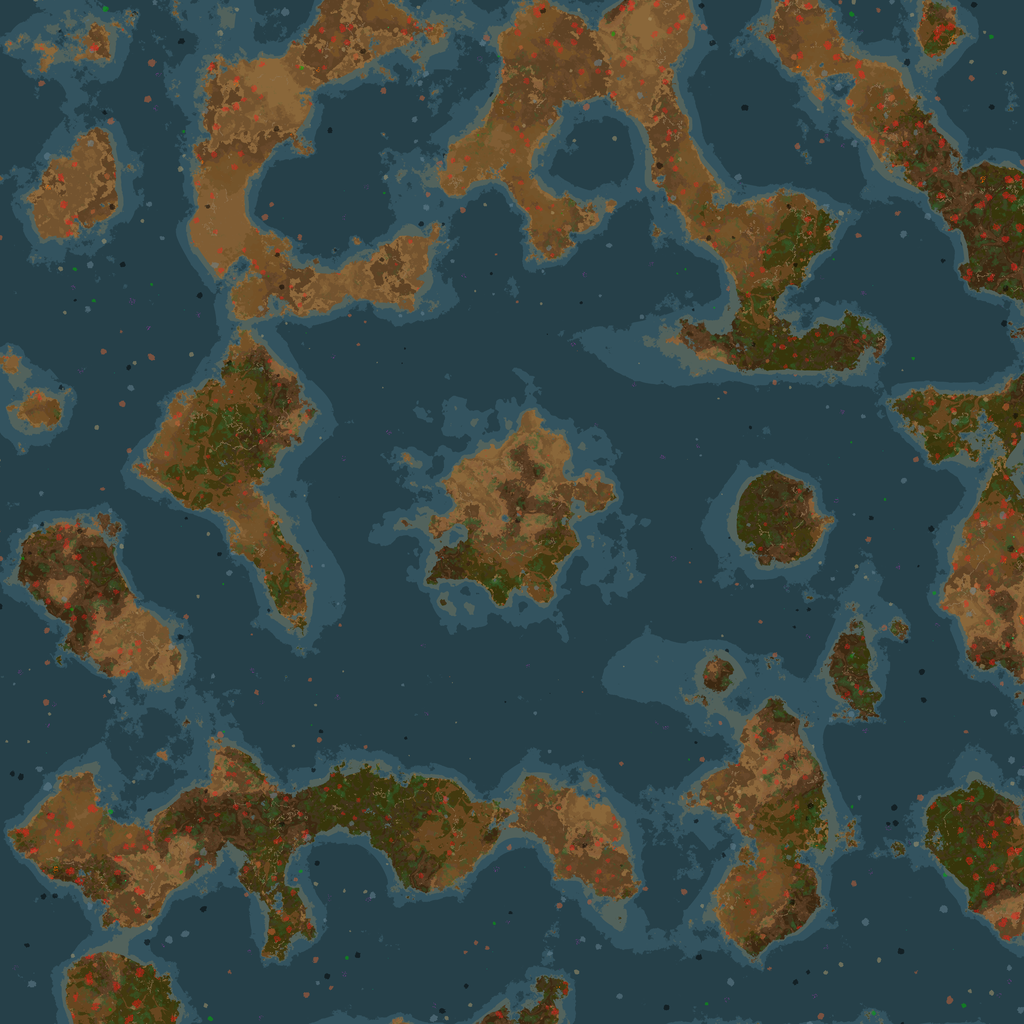
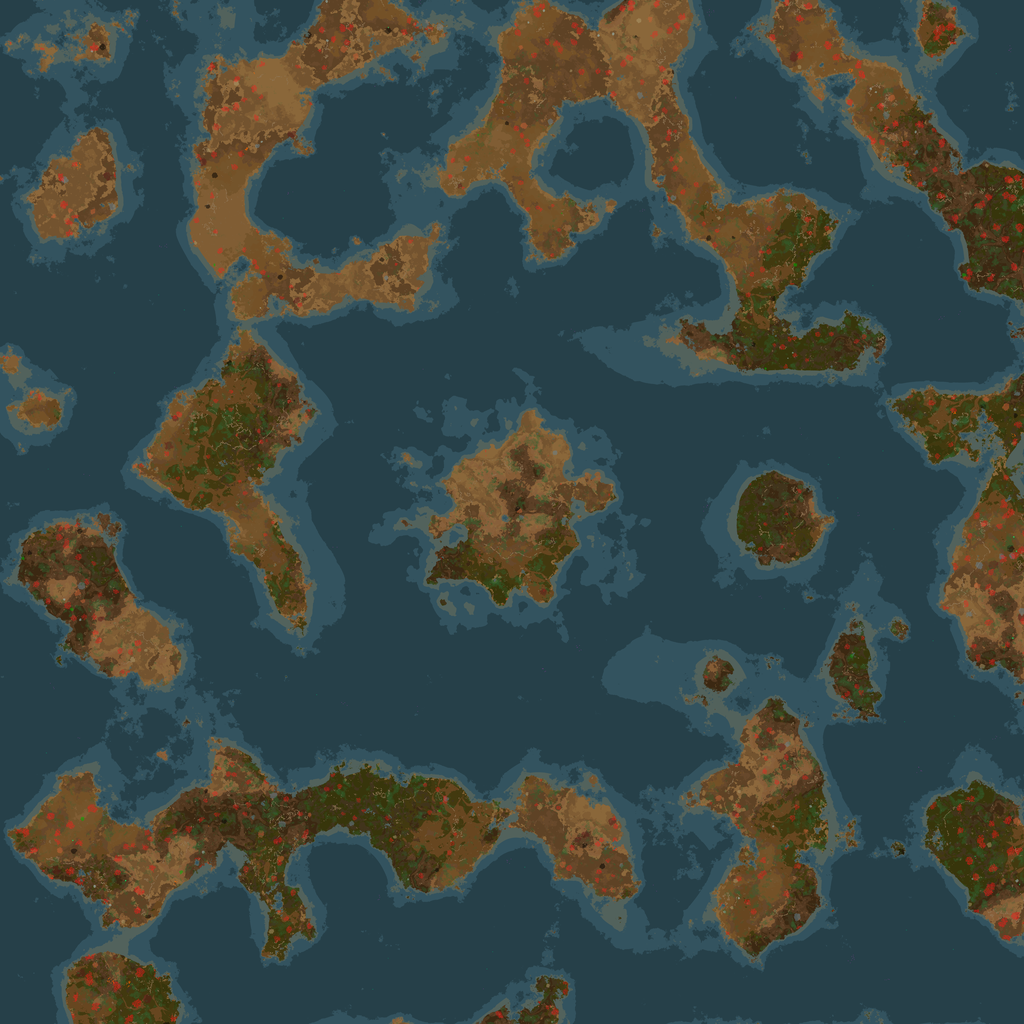
Offshore oil from cargo-ships-oil-rig; no inland oil on Nauvis
cargo-ships 2.1 moved oil rigs to cargo-ships-oil-rig and dropped the
no_oil_on_land/deep_oil settings, so FF removes crude-oil from Nauvis map
gen itself. Seamounts use the oil rig mod's water_resource layer since
water tiles keep the resource layer in 2.x. Verified with a 8192x8192
preview: 0 inland oil, 125 offshore oil, 28 seamounts.

Claude-Session: https://claude.ai/code/session_01DpRwa4QwQtoERJC4z1rj1N

Changed region(s): [[0.0625, 0.5625, 0.0938, 0.5938]]

diff --git a/docs/PORT_2.1.md b/docs/PORT_2.1.md
@@ -73,6 +73,13 @@ Cargo Ships 2.1.8, BZ Lead 2.0.29, BZ Titanium 2.0.27 (вместо `cargo-ships
   `category` → `categories`). Поэтому сейчас он **необязательный**: мод запускается без контейнеров, интеграция
   включится сама, когда выйдет версия под 2.1.
 * В Cargo Ships 2.1 нефтяная вышка вынесена в отдельный мод **cargo-ships-oil-rig** — теперь это обязательная зависимость.
+  Его настроек `deep_oil`/`no_oil_on_land`/`oil_richness` больше нет, поэтому FF сам убирает `crude-oil` из
+  генерации Нувиса (`prototypes/planet-nauvis.lua`). Морская нефть — `offshore-oil` этого мода.
+* Подводные горы используют слой `water_resource` мода вышки (в 2.x у воды есть слой `resource`).
+* Карта 8192×8192 с этими модами: нефть на суше 0, морская нефть 125, подводных гор 28, лава 128, кратеров 9,
+  свинец и титан есть.
+* Ещё не проверены скрипты с настоящими модами: нужны **Robot256Lib** (библиотека Cargo Ships) и
+  **SpidertronEnhancements** (для Spidertron Patrols).
 
 ## Что ещё НЕ проверено
 1. **Мод целиком со всеми зависимостями.** Версии под 2.1 есть у Cargo Ships, BZ Lead, BZ Titanium, Mini Trains,
